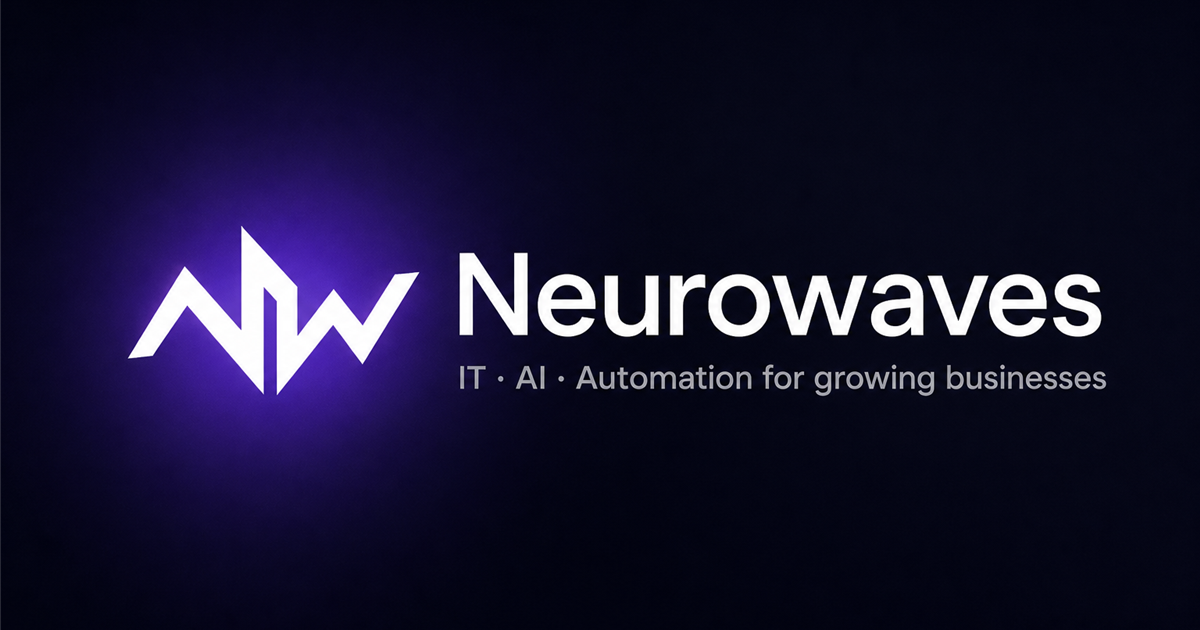
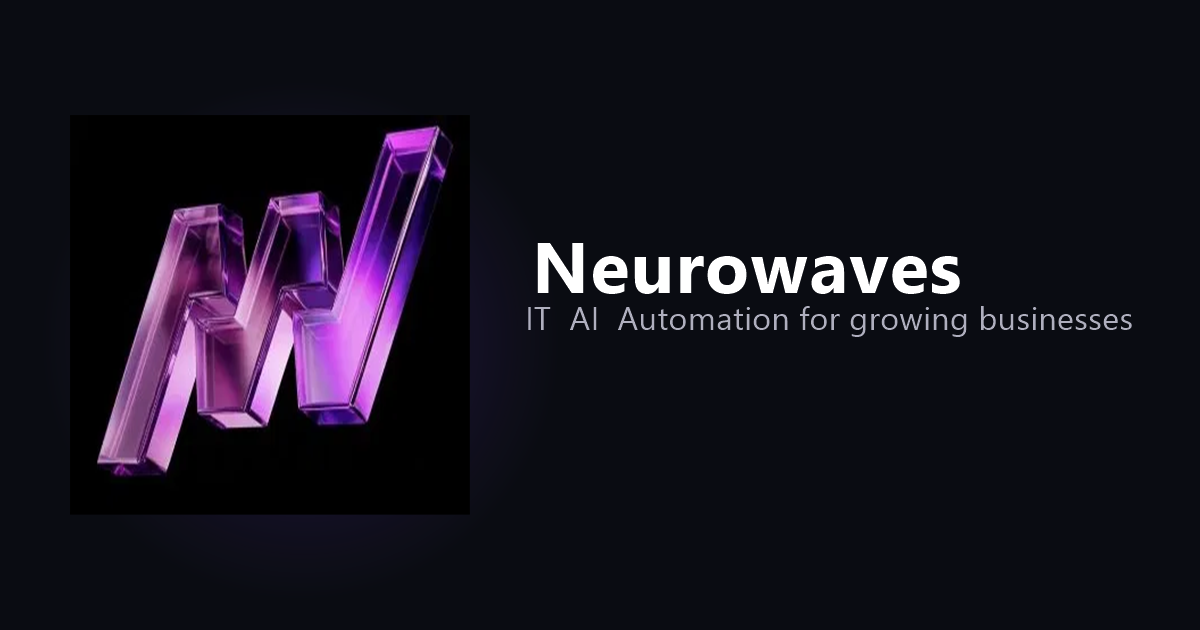
Fix social link preview, form tracking, and contact page i18n.
Rebuild og-image with the real crystal logo, fix broken em dashes in share metadata, add dataLayer form_submit_success for GTM, and translate Sztefan's role across all languages.

Changed region(s): [[0.0308, 0.1206, 0.9558, 0.8444], [0.4317, 0.573, 0.925, 0.6333]]

diff --git a/index.html b/index.html
@@ -11,30 +11,30 @@ j=d.createElement(s),dl=l!='dataLayer'?'&l='+l:'';j.async=true;j.src=
 
   <meta charset="UTF-8">
   <meta name="viewport" content="width=device-width, initial-scale=1.0">
-  <title>Neurowaves ? IT, AI, automation &amp; marketing for growing businesses</title>
-  <meta name="description" id="meta-description" content="Neurowaves delivers IT projects, AI implementation, workflow automation, and marketing ? wired into one system so your business runs faster and loses fewer leads.">
+  <title>Neurowaves &mdash; IT, AI, automation &amp; marketing for growing businesses</title>
+  <meta name="description" id="meta-description" content="Neurowaves delivers IT projects, AI implementation, workflow automation, and marketing &mdash; wired into one system so your business runs faster and loses fewer leads.">
   <link rel="canonical" href="https://neurowaves.ai/">
   <meta name="robots" content="index, follow">
   <meta property="og:type" content="website">
   <meta property="og:site_name" content="Neurowaves">
-  <meta property="og:title" content="Neurowaves ? IT, AI, automation &amp; marketing for growing businesses">
-  <meta property="og:description" content="Neurowaves delivers IT projects, AI implementation, workflow automation, and marketing ? wired into one system so your business runs faster and loses fewer leads.">
+  <meta property="og:title" content="Neurowaves &mdash; IT, AI, automation &amp; marketing for growing businesses">
+  <meta property="og:description" content="Neurowaves delivers IT projects, AI implementation, workflow automation, and marketing &mdash; wired into one system so your business runs faster and loses fewer leads.">
   <meta property="og:url" content="https://neurowaves.ai/">
-  <meta property="og:image" content="https://neurowaves.ai/assets/og-image.png?v=1">
+  <meta property="og:image" content="https://neurowaves.ai/assets/og-image.png?v=2">
   <meta property="og:image:width" content="1200">
   <meta property="og:image:height" content="630">
-  <meta property="og:image:alt" content="Neurowaves ? IT, AI and automation for growing businesses">
+  <meta property="og:image:alt" content="Neurowaves &mdash; IT, AI and automation for growing businesses">
   <meta name="twitter:card" content="summary_large_image">
-  <meta name="twitter:title" content="Neurowaves ? IT, AI, automation &amp; marketing for growing businesses">
-  <meta name="twitter:description" content="Neurowaves delivers IT projects, AI implementation, workflow automation, and marketing ? wired into one system so your business runs faster and loses fewer leads.">
-  <meta name="twitter:image" content="https://neurowaves.ai/assets/og-image.png?v=1">
+  <meta name="twitter:title" content="Neurowaves &mdash; IT, AI, automation &amp; marketing for growing businesses">
+  <meta name="twitter:description" content="Neurowaves delivers IT projects, AI implementation, workflow automation, and marketing &mdash; wired into one system so your business runs faster and loses fewer leads.">
+  <meta name="twitter:image" content="https://neurowaves.ai/assets/og-image.png?v=2">
   <script type="application/ld+json">
   {
     "@context": "https://schema.org",
     "@type": "Organization",
     "name": "Neurowaves",
     "url": "https://neurowaves.ai/",
-    "logo": "https://neurowaves.ai/assets/og-image.png?v=1",
+    "logo": "https://neurowaves.ai/assets/logo-3d.png",
     "email": "[email redacted]",
     "telephone": "[phone redacted]",
     "sameAs": [
@@ -782,6 +782,6 @@ height="0" width="0" style="display:none;visibility:hidden"></iframe></noscript>
   </footer>
 
   <script src="/i18n.js?v=38" defer></script>
-  <script src="/script.js?v=82" defer></script>
+  <script src="/script.js?v=83" defer></script>
 </body>
 </html>

diff --git a/contact/index.html b/contact/index.html
@@ -20,11 +20,11 @@ j=d.createElement(s),dl=l!='dataLayer'?'&l='+l:'';j.async=true;j.src=
   <meta property="og:title" content="Contact — Neurowaves">
   <meta property="og:description" content="Contact Neurowaves — request an audit">
   <meta property="og:url" content="https://neurowaves.ai/contact/">
-  <meta property="og:image" content="https://neurowaves.ai/assets/og-image.png?v=1">
+  <meta property="og:image" content="https://neurowaves.ai/assets/og-image.png?v=2">
   <meta name="twitter:card" content="summary_large_image">
   <meta name="twitter:title" content="Contact — Neurowaves">
   <meta name="twitter:description" content="Contact Neurowaves — request an audit">
-  <meta name="twitter:image" content="https://neurowaves.ai/assets/og-image.png?v=1">
+  <meta name="twitter:image" content="https://neurowaves.ai/assets/og-image.png?v=2">
   <link rel="preconnect" href="https://fonts.googleapis.com">
   <link rel="preconnect" href="https://fonts.gstatic.com" crossorigin>
   <link href="https://fonts.googleapis.com/css2?family=Inter:wght@300;400;500;600;700;800;900&display=swap" rel="stylesheet">
@@ -165,7 +165,7 @@ height="0" width="0" style="display:none;visibility:hidden"></iframe></noscript>
           </div>
           <div class="contact-team-body">
             <h3 class="contact-team-name">Sztefan Horelik</h3>
-            <p class="contact-team-role" data-i18n="contact.teamSztefanRole">Co-founder and managing director</p>
+            <p class="contact-team-role" data-i18n="contact.teamSztefanRole">Co-founder and Managing Director</p>
             <ul class="contact-team-links">
               <li>
                 <a href="mailto:[email redacted]">
@@ -247,7 +247,7 @@ height="0" width="0" style="display:none;visibility:hidden"></iframe></noscript>
     </div>
   </footer>
 
-  <script src="/i18n.js?v=35" defer></script>
-  <script src="/script.js?v=82" defer></script>
+  <script src="/i18n.js?v=39" defer></script>
+  <script src="/script.js?v=83" defer></script>
 </body>
 </html>

diff --git a/script.js b/script.js
@@ -665,6 +665,13 @@ document.querySelectorAll('.contact-form').forEach((form) => {
       const data = await response.json();
 
       if (data.success) {
+        window.dataLayer = window.dataLayer || [];
+        window.dataLayer.push({
+          event: 'form_submit_success',
+          form_name: 'contact',
+          form_location: /^\/contact\/?$/.test(window.location.pathname) ? 'contact_page' : 'homepage',
+          form_language: lang,
+        });
         btn.textContent = window.NW_I18N?.t(lang, 'form.success') || 'Thanks — we\'ll be in touch!';
         form.reset();
         setTimeout(() => {

diff --git a/blog/index.html b/blog/index.html
@@ -20,11 +20,11 @@ j=d.createElement(s),dl=l!='dataLayer'?'&l='+l:'';j.async=true;j.src=
   <meta property="og:title" content="Blog — Neurowaves">
   <meta property="og:description" content="Insights on AI, sales, and operations — Neurowaves">
   <meta property="og:url" content="https://neurowaves.ai/blog/">
-  <meta property="og:image" content="https://neurowaves.ai/assets/og-image.png?v=1">
+  <meta property="og:image" content="https://neurowaves.ai/assets/og-image.png?v=2">
   <meta name="twitter:card" content="summary_large_image">
   <meta name="twitter:title" content="Blog — Neurowaves">
   <meta name="twitter:description" content="Insights on AI, sales, and operations — Neurowaves">
-  <meta name="twitter:image" content="https://neurowaves.ai/assets/og-image.png?v=1">
+  <meta name="twitter:image" content="https://neurowaves.ai/assets/og-image.png?v=2">
   <link rel="preconnect" href="https://fonts.googleapis.com">
   <link rel="preconnect" href="https://fonts.gstatic.com" crossorigin>
   <link href="https://fonts.googleapis.com/css2?family=Inter:wght@300;400;500;600;700;800;900&display=swap" rel="stylesheet">
@@ -188,6 +188,6 @@ height="0" width="0" style="display:none;visibility:hidden"></iframe></noscript>
 
   <script src="/i18n.js?v=35" defer></script>
   <script src="/blog-articles-i18n.js?v=35" defer></script>
-  <script src="/script.js?v=82" defer></script>
+  <script src="/script.js?v=83" defer></script>
 </body>
 </html>

diff --git a/cases/index.html b/cases/index.html
@@ -20,11 +20,11 @@ j=d.createElement(s),dl=l!='dataLayer'?'&l='+l:'';j.async=true;j.src=
   <meta property="og:title" content="Cases — Neurowaves">
   <meta property="og:description" content="Selected B2B projects — Neurowaves">
   <meta property="og:url" content="https://neurowaves.ai/cases/">
-  <meta property="og:image" content="https://neurowaves.ai/assets/og-image.png?v=1">
+  <meta property="og:image" content="https://neurowaves.ai/assets/og-image.png?v=2">
   <meta name="twitter:card" content="summary_large_image">
   <meta name="twitter:title" content="Cases — Neurowaves">
   <meta name="twitter:description" content="Selected B2B projects — Neurowaves">
-  <meta name="twitter:image" content="https://neurowaves.ai/assets/og-image.png?v=1">
+  <meta name="twitter:image" content="https://neurowaves.ai/assets/og-image.png?v=2">
   <link rel="preconnect" href="https://fonts.googleapis.com">
   <link rel="preconnect" href="https://fonts.gstatic.com" crossorigin>
   <link href="https://fonts.googleapis.com/css2?family=Inter:wght@300;400;500;600;700;800;900&display=swap" rel="stylesheet">
@@ -266,6 +266,6 @@ height="0" width="0" style="display:none;visibility:hidden"></iframe></noscript>
   </footer>
 
   <script src="/i18n.js?v=38" defer></script>
-  <script src="/script.js?v=82" defer></script>
+  <script src="/script.js?v=83" defer></script>
 </body>
 </html>

diff --git a/faq/index.html b/faq/index.html
@@ -20,11 +20,11 @@ j=d.createElement(s),dl=l!='dataLayer'?'&l='+l:'';j.async=true;j.src=
   <meta property="og:title" content="FAQ — Neurowaves">
   <meta property="og:description" content="Frequently asked questions — Neurowaves">
   <meta property="og:url" content="https://neurowaves.ai/faq/">
-  <meta property="og:image" content="https://neurowaves.ai/assets/og-image.png?v=1">
+  <meta property="og:image" content="https://neurowaves.ai/assets/og-image.png?v=2">
   <meta name="twitter:card" content="summary_large_image">
   <meta name="twitter:title" content="FAQ — Neurowaves">
   <meta name="twitter:description" content="Frequently asked questions — Neurowaves">
-  <meta name="twitter:image" content="https://neurowaves.ai/assets/og-image.png?v=1">
+  <meta name="twitter:image" content="https://neurowaves.ai/assets/og-image.png?v=2">
   <link rel="preconnect" href="https://fonts.googleapis.com">
   <link rel="preconnect" href="https://fonts.gstatic.com" crossorigin>
   <link href="https://fonts.googleapis.com/css2?family=Inter:wght@300;400;500;600;700;800;900&display=swap" rel="stylesheet">
@@ -178,6 +178,6 @@ height="0" width="0" style="display:none;visibility:hidden"></iframe></noscript>
   </footer>
 
   <script src="/i18n.js?v=35" defer></script>
-  <script src="/script.js?v=82" defer></script>
+  <script src="/script.js?v=83" defer></script>
 </body>
 </html>

diff --git a/i18n.js b/i18n.js
@@ -340,7 +340,7 @@
     "contact.teamTag": "DIRECT LINE",
     "contact.teamTitle": "Contact the team",
     "contact.teamArthurRole": "Founder and CEO",
-    "contact.teamSztefanRole": "Co-founder and managing director",
+    "contact.teamSztefanRole": "Co-founder and Managing Director",
     "form.consent": "I consent to my data being processed and to being contacted (GDPR)",
     "form.submit": "Send my request",
     "form.sending": "Sending...",
@@ -692,6 +692,7 @@
     "contact.teamTag": "ПРЯМИЙ ЗВ'ЯЗОК",
     "contact.teamTitle": "Зв'яжіться з командою",
     "contact.teamArthurRole": "Засновник і CEO",
+    "contact.teamSztefanRole": "Співзасновник і виконавчий директор",
     "form.consent": "Погоджуюсь на обробку даних і зв'язок зі мною (GDPR)",
     "form.submit": "Надіслати запит",
     "form.sending": "Надсилаємо...",
@@ -1043,6 +1044,7 @@
     "contact.teamTag": "DIREKTER KONTAKT",
     "contact.teamTitle": "Kontakt zum Team",
     "contact.teamArthurRole": "Gründer und CEO",
+    "contact.teamSztefanRole": "Mitgründer und Geschäftsführer",
     "form.consent": "Ich willige in die Verarbeitung meiner Daten und in die Kontaktaufnahme ein (DSGVO)",
     "form.submit": "Anfrage senden",
     "form.sending": "Wird gesendet...",
@@ -1394,6 +1396,7 @@
     "contact.teamTag": "LIGNE DIRECTE",
     "contact.teamTitle": "Contactez l'équipe",
     "contact.teamArthurRole": "Fondateur et CEO",
+    "contact.teamSztefanRole": "Co-fondateur et directeur général",
     "form.consent": "J'accepte le traitement de mes données et d'être recontacté (RGPD)",
     "form.submit": "Envoyer ma demande",
     "form.sending": "Envoi en cours...",
@@ -1745,6 +1748,7 @@
     "contact.teamTag": "LÍNEA DIRECTA",
     "contact.teamTitle": "Hable con el equipo",
     "contact.teamArthurRole": "Fundador y CEO",
+    "contact.teamSztefanRole": "Cofundador y director general",
     "form.consent": "Acepto el tratamiento de mis datos y que se me contacte (RGPD)",
     "form.submit": "Enviar mi solicitud",
     "form.sending": "Enviando...",

diff --git a/services/index.html b/services/index.html
@@ -20,11 +20,11 @@ j=d.createElement(s),dl=l!='dataLayer'?'&l='+l:'';j.async=true;j.src=
   <meta property="og:title" content="Services — Neurowaves">
   <meta property="og:description" content="AI automation services for B2B — Neurowaves">
   <meta property="og:url" content="https://neurowaves.ai/services/">
-  <meta property="og:image" content="https://neurowaves.ai/assets/og-image.png?v=1">
+  <meta property="og:image" content="https://neurowaves.ai/assets/og-image.png?v=2">
   <meta name="twitter:card" content="summary_large_image">
   <meta name="twitter:title" content="Services — Neurowaves">
   <meta name="twitter:description" content="AI automation services for B2B — Neurowaves">
-  <meta name="twitter:image" content="https://neurowaves.ai/assets/og-image.png?v=1">
+  <meta name="twitter:image" content="https://neurowaves.ai/assets/og-image.png?v=2">
   <link rel="preconnect" href="https://fonts.googleapis.com">
   <link rel="preconnect" href="https://fonts.gstatic.com" crossorigin>
   <link href="https://fonts.googleapis.com/css2?family=Inter:wght@300;400;500;600;700;800;900&display=swap" rel="stylesheet">
@@ -319,6 +319,6 @@ height="0" width="0" style="display:none;visibility:hidden"></iframe></noscript>
   </footer>
 
   <script src="/i18n.js?v=35" defer></script>
-  <script src="/script.js?v=82" defer></script>
+  <script src="/script.js?v=83" defer></script>
 </body>
 </html>

diff --git a/blog/ai-agents-vs-chatbots/index.html b/blog/ai-agents-vs-chatbots/index.html
@@ -103,6 +103,6 @@ height="0" width="0" style="display:none;visibility:hidden"></iframe></noscript>
   </footer>
   <script src="/i18n.js?v=35" defer></script>
   <script src="/blog-articles-i18n.js?v=35" defer></script>
-  <script src="/script.js?v=82" defer></script>
+  <script src="/script.js?v=83" defer></script>
 </body>
 </html>

diff --git a/blog/fractional-cmo/index.html b/blog/fractional-cmo/index.html
@@ -103,6 +103,6 @@ height="0" width="0" style="display:none;visibility:hidden"></iframe></noscript>
   </footer>
   <script src="/i18n.js?v=35" defer></script>
   <script src="/blog-articles-i18n.js?v=35" defer></script>
-  <script src="/script.js?v=82" defer></script>
+  <script src="/script.js?v=83" defer></script>
 </body>
 </html>

diff --git a/blog/landing-pages-ai-search/index.html b/blog/landing-pages-ai-search/index.html
@@ -103,6 +103,6 @@ height="0" width="0" style="display:none;visibility:hidden"></iframe></noscript>
   </footer>
   <script src="/i18n.js?v=35" defer></script>
   <script src="/blog-articles-i18n.js?v=35" defer></script>
-  <script src="/script.js?v=82" defer></script>
+  <script src="/script.js?v=83" defer></script>
 </body>
 </html>

diff --git a/blog/pipeline-stages/index.html b/blog/pipeline-stages/index.html
@@ -103,6 +103,6 @@ height="0" width="0" style="display:none;visibility:hidden"></iframe></noscript>
   </footer>
   <script src="/i18n.js?v=35" defer></script>
   <script src="/blog-articles-i18n.js?v=35" defer></script>
-  <script src="/script.js?v=82" defer></script>
+  <script src="/script.js?v=83" defer></script>
 </body>
 </html>